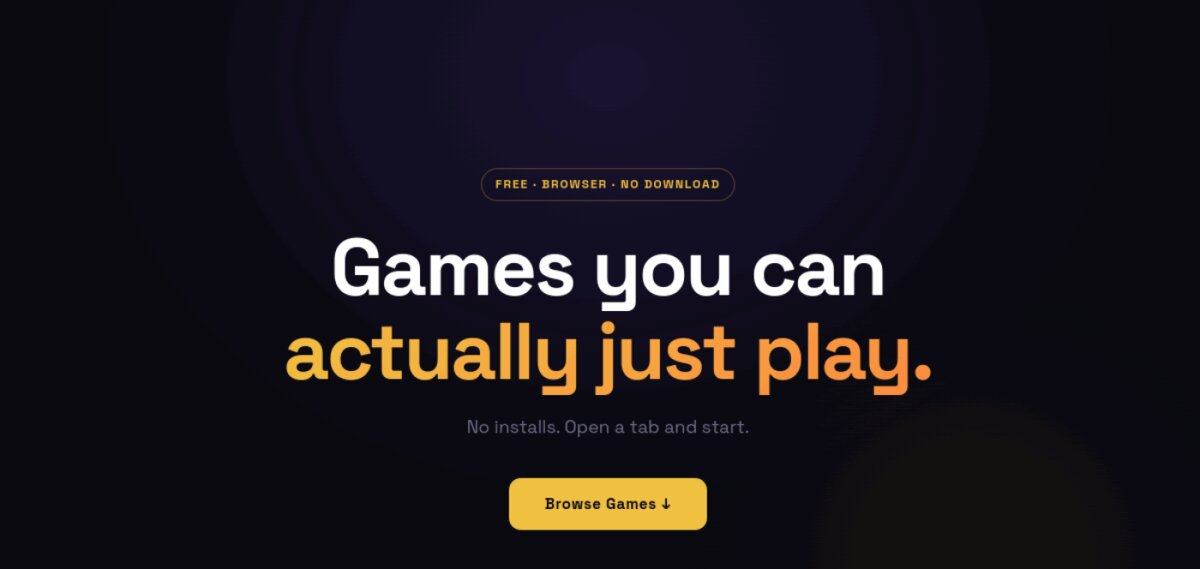
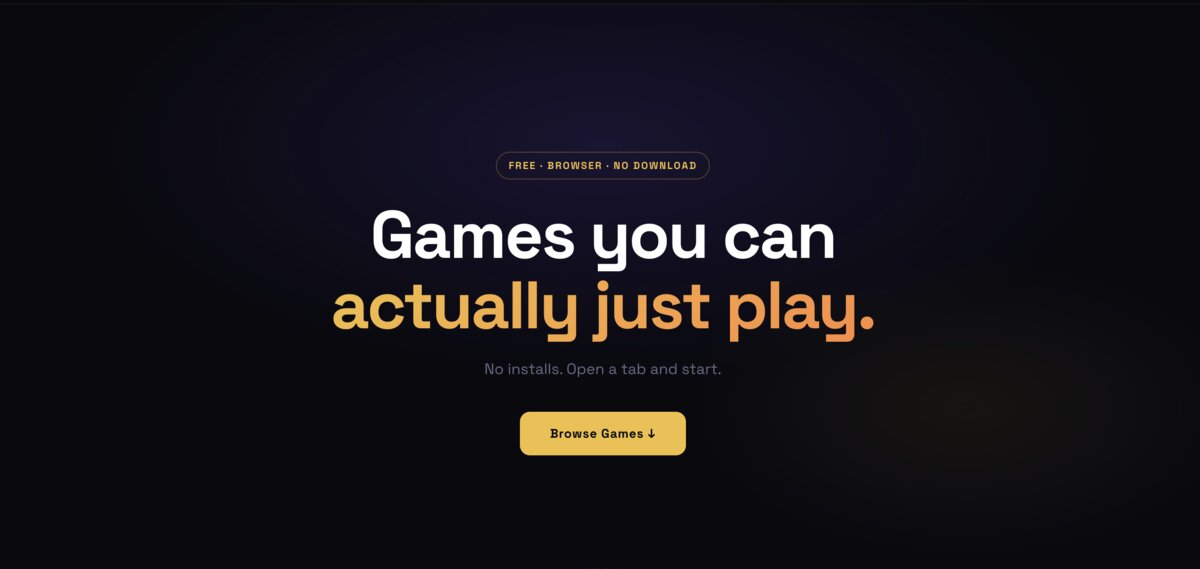
Real screenshots: crisp jawn.games hero, Dot Trail menu, new Fuddle card
- jawn.games featured card regenerated from full-quality menu screenshot
- Dot Trail games card now shows its actual menu (replaces lofi image)
- Add Fuddle card to games grid (cozy word-tile puzzle on jawn.games)
- gitignore raw screenshot folders and source image

Changed region(s): [[0.2158, 0.3585, 0.7708, 0.8067], [0.4008, 0.8366, 0.6167, 0.9561], [0.4008, 0.2689, 0.6167, 0.3585]]

diff --git a/index.html b/index.html
@@ -267,12 +267,28 @@
         </a>
 
         <a class="card reveal" href="https://jawn.games" target="_blank" rel="noopener noreferrer">
-          <img src="assets/img/Cards/lofiGirlMainMenu.png" alt="" class="card__img" width="800" height="800"
-            loading="lazy" />
+          <picture>
+            <source srcset="assets/img/Cards/dottrail.webp" type="image/webp" />
+            <img src="assets/img/Cards/dottrail.jpg" alt="" class="card__img" width="800" height="600"
+              loading="lazy" />
+          </picture>
           <div class="card__body">
             <h3 class="card__title">Dot Trail</h3>
             <p class="card__description">A pattern-puzzle game with 127+ levels — now playable free in the
               browser.</p>
+            <span class="card__meta">jawn.games</span>
+          </div>
+        </a>
+
+        <a class="card reveal" href="https://jawn.games" target="_blank" rel="noopener noreferrer">
+          <picture>
+            <source srcset="assets/img/Cards/fuddle.webp" type="image/webp" />
+            <img src="assets/img/Cards/fuddle.jpg" alt="" class="card__img" width="800" height="600"
+              loading="lazy" />
+          </picture>
+          <div class="card__body">
+            <h3 class="card__title">Fuddle</h3>
+            <p class="card__description">A cozy word-tile puzzle — 175 crosswords plus a daily challenge.</p>
             <span class="card__meta">jawn.games</span>
           </div>
         </a>
